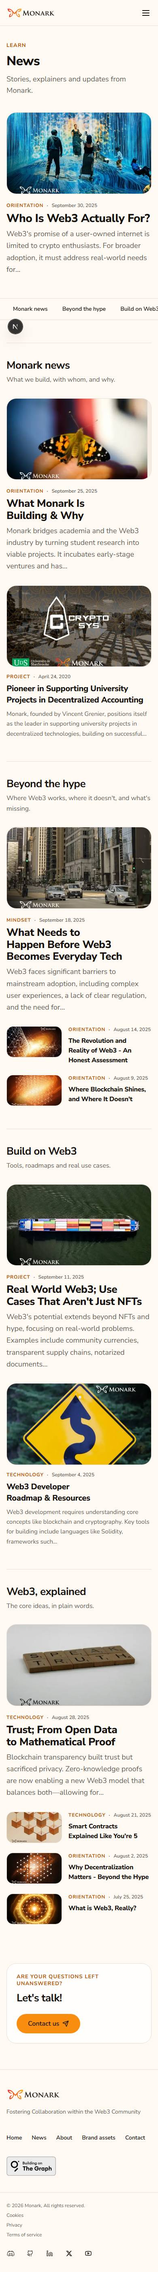
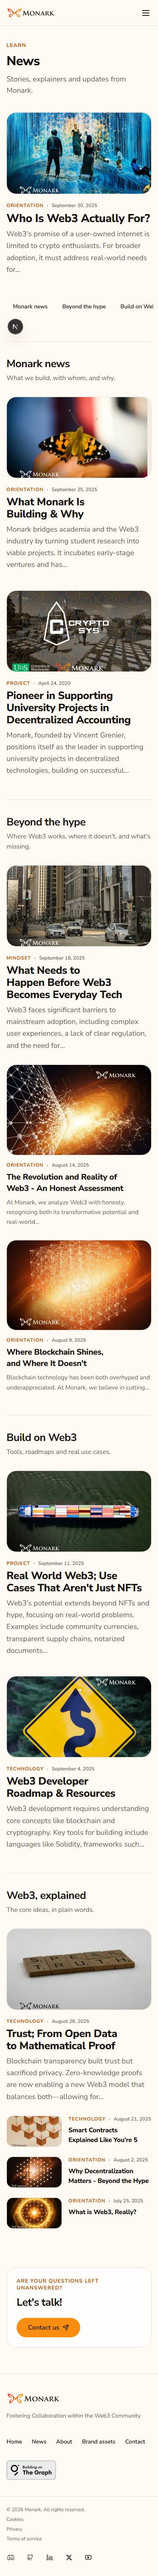
docs: Learn hub and news screenshots and design note
Claude-Session: https://claude.ai/code/session_01At2SeqiTfzUbYRLANAdBLP

diff --git a/docs/redesign-2026/README.md b/docs/redesign-2026/README.md
@@ -49,7 +49,7 @@ Headings and UI strings are in sentence case in English; the French strings alre
 
 **Learn hub.** `/learn` replaces the "Work in progress" placeholder with a hub built from typed en/fr content (`components/pages/learn/learn.i18n.ts`) and section components, like the About page, and follows the brand's text budgets ("Restraint", guidelines §8). Sections: a hero (headline and one line); learning paths for students, developers and industry, each with a photo of people, one line from its participate page, an existing news article to read first and a link to the participate page; the three latest news items (same data as `/learn/news`); the Monark docs on an inverted panel (the Notion hub the top navigation already links as "Docs", plus the GitHub organisation); Discord and YouTube from `socials.ts`; a closing call to action. No courses, dates or partners were added. The three photos are free-licence Unsplash images, listed in `docs/assets.md`. The blurred glow copy was removed from `roadmap.svg` (hero art, also used by the home FAQ), as it was for the other line art. See `after/learn-*` and `after/fr-learn-*`.
 
-**News.** The list (`/learn/news`) reads like a magazine: the latest story as a wide lead (16:9 image beside the title on wide screens), a sticky row of jump links, then one section per category. Each section has a heading and one short line, then a large 16:9 feature with the other stories beside it as compact rows (a full card when there is only one), mirrored from one section to the next on wide screens (feature left, then right); more than four stories would continue in a grid below. On phones everything stacks, feature first, and the jump links scroll sideways and follow the section in view. The lead story isn't repeated in its category. Categories come from a one-line `category` field in each article's frontmatter (`monark`, `beyond-the-hype`, `build`, `explained`), copied into the generated index; labels are in `news.i18n.ts`, and an article without a category would land in a final "More news" section. Cards show the cover, one topic tag, the date, the title and a summary cut to 20 words; the whole card is one link, and hover lifts it slightly and zooms the image (motion-safe). There is an empty state for no news. The article page (`/learn/news/[id]`) has a back link, tags, title, summary, byline (author, date, reading time, city), share buttons (LinkedIn, X, copy link), a large 16:9 cover with its credit, the MDX body at ~68ch, the original source when there is one, and "More news". The body's typography is a CSS module (`news-prose.module.scss`), so it can't leak into other pages, and the route no longer wraps pages in `<article>`. Dates are formatted in UTC, because the stored calendar days showed as the previous day in North American time zones. Share metadata now uses the article's real `.webp` cover (the shared helper pointed to a `.jpg` that doesn't exist), with Open Graph `article` fields, en/fr alternates and NewsArticle JSON-LD. See `after/news-*` and `after/fr-news-*`.
+**News.** The list (`/learn/news`) reads like a magazine: the latest story as a wide lead (16:9 image beside the title on wide screens), a row of category jump links, then one section per category (heading and one short line). The jump row has no container of its own; when it sticks under the header (detected with an IntersectionObserver sentinel, exposed as `data-stuck`), it gains the page background and a bottom border, with a short transition. A jump link scrolls smoothly to its section (instantly under reduced motion), lands it just under the bar through `scroll-margin-top`, updates the URL hash without a jump and keeps the highlight on the clicked category. The section layout depends on its size: two stories sit side by side as equal cards; three show a large 16:9 feature with two tall side stories (image beside the text) that together match the feature's height; four or more show the feature with compact rows beside it, and anything past four continues in a grid below. The feature alternates left and right from one section to the next on wide screens; on phones everything stacks, feature first. The lead story isn't repeated in its category. Categories come from a one-line `category` field in each article's frontmatter (`monark`, `beyond-the-hype`, `build`, `explained`), copied into the generated index; labels are in `news.i18n.ts`, and an article without a category would land in a final "More news" section. Cards show the cover, one topic tag, the date, the title and a summary cut to 20 words (14 on the tall side stories); the whole card is one link, and hover lifts it slightly and zooms the image (motion-safe). There is an empty state for no news. `after/news-sticky-top-1440-light.jpg` and `after/news-sticky-scrolled-1440-light.jpg` show the jump row before and after it sticks. The article page (`/learn/news/[id]`) has a back link, tags, title, summary, byline (author, date, reading time, city), share buttons (LinkedIn, X, copy link), a large 16:9 cover with its credit, the MDX body at ~68ch, the original source when there is one, and "More news". The body's typography is a CSS module (`news-prose.module.scss`), so it can't leak into other pages, and the route no longer wraps pages in `<article>`. Dates are formatted in UTC, because the stored calendar days showed as the previous day in North American time zones. Share metadata now uses the article's real `.webp` cover (the shared helper pointed to a `.jpg` that doesn't exist), with Open Graph `article` fields, en/fr alternates and NewsArticle JSON-LD. See `after/news-*` and `after/fr-news-*`.
 
 **Motion.** Transitions run at 150–250ms ease-out. `prefers-reduced-motion` turns off animations, transitions and view transitions, and the table of contents scrolls instantly under reduced motion.
 
